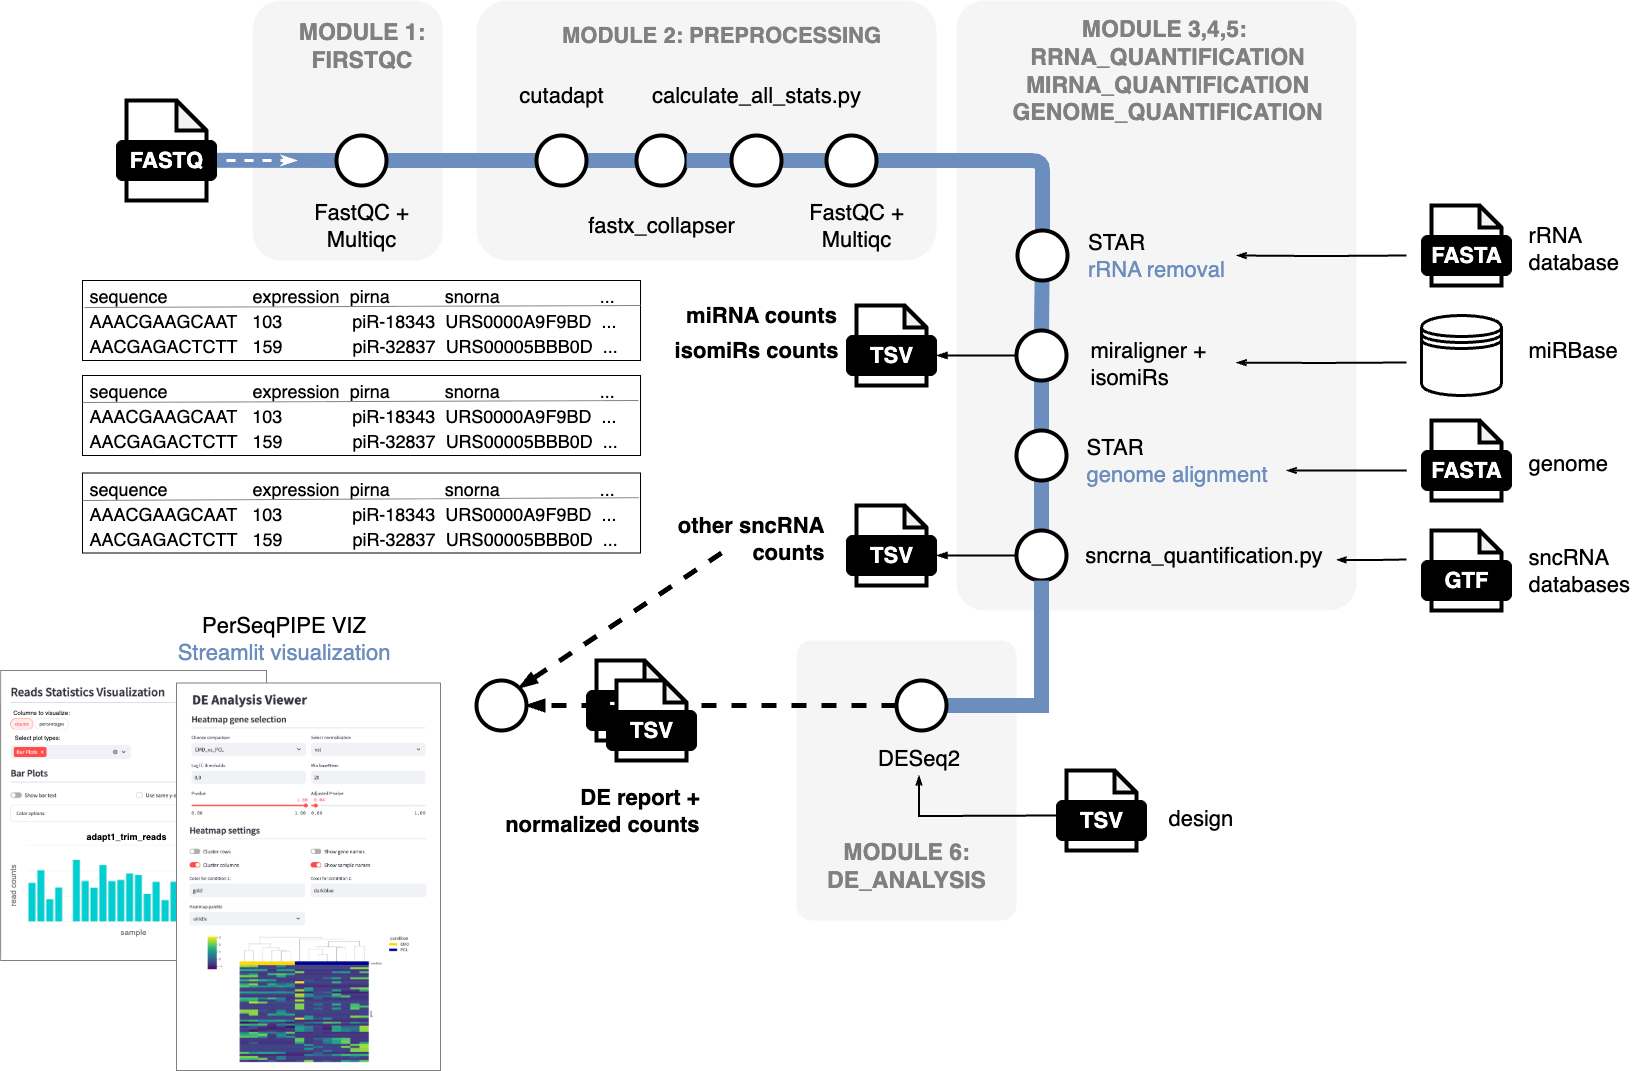
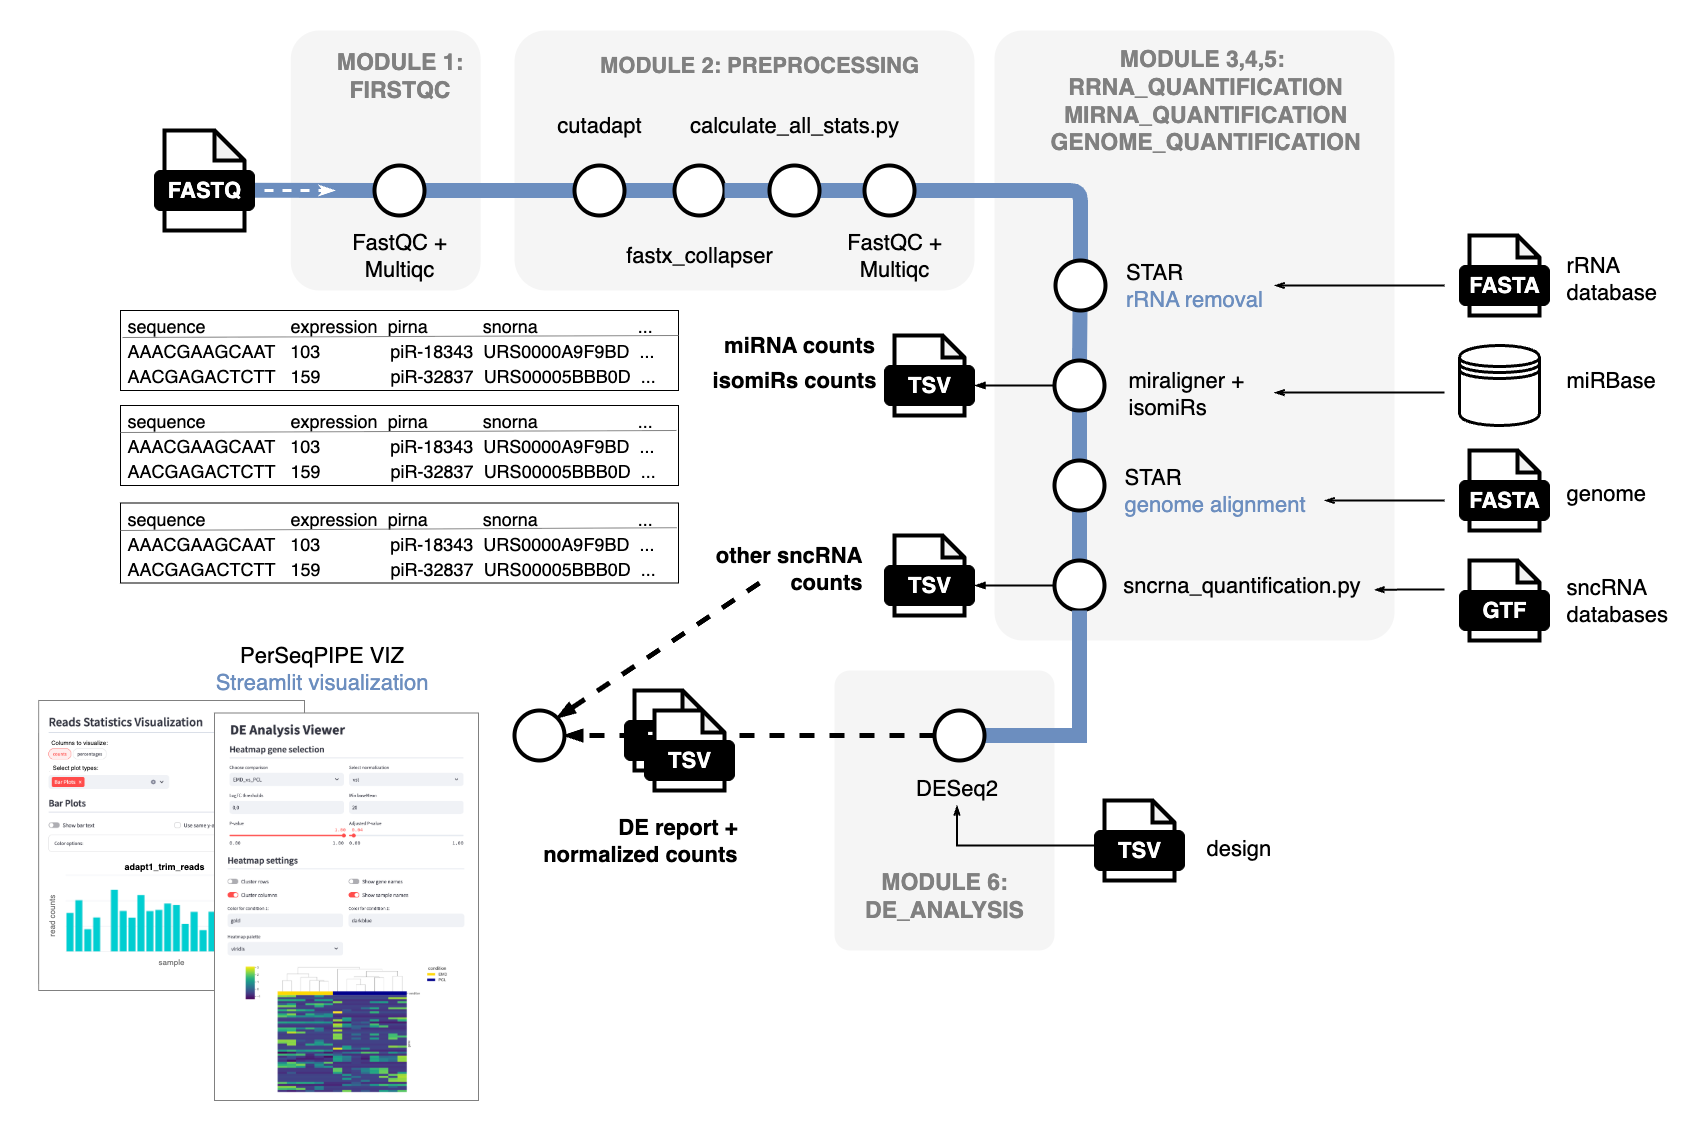
Cleaning README.md

diff --git a/bin/03e_quantification_short_rna.py b/bin/03e_quantification_short_rna.py
@@ -9,7 +9,6 @@ import logging
 import os
 from collections import defaultdict
 
-
 from MINTplates_module import *
 from utils import *
 
@@ -420,9 +419,3 @@ def main():
 if __name__ == "__main__":
     main()
 
-
-#genes = HTSeq.GenomicArrayOfSets("auto", stranded=True)
-#feature = HTSeq.GenomicInterval(str(1), 100, 150, '+')
-#interval = HTSeq.GenomicInterval(str(1), 90, 120, "+")
-#for iv, val in genes[interval].steps():
-#   print(iv, val)

diff --git a/CITATIONS.md b/CITATIONS.md
@@ -1,4 +1,4 @@
-# nf-core/srnaseq: Citations
+# General
 
 ## [nf-core](https://pubmed.ncbi.nlm.nih.gov/32055031/)
 
@@ -18,6 +18,46 @@
 
 > Ewels P, Magnusson M, Lundin S, Käller M. MultiQC: summarize analysis results for multiple tools and samples in a single report. Bioinformatics. 2016 Oct 1;32(19):3047-8. doi: 10.1093/bioinformatics/btw354. Epub 2016 Jun 16. PubMed PMID: 27312411; PubMed Central PMCID: PMC5039924.
 
+- [Cutadapt](https://pubmed.ncbi.nlm.nih.gov/28715235/)
+
+> Kechin A, Boyarskikh U, Kel A, Filipenko M. cutPrimers: A New Tool for Accurate Cutting of Primers from Reads of Targeted Next Generation Sequencing. J Comput Biol. 2017 Nov;24(11):1138-1143. doi: 10.1089/cmb.2017.0096. Epub 2017 Jul 17. PMID: 28715235.
+
+- [BBMap](https://bbmap.org)
+
+> Bushnell, B. (2014) BBMap: A Fast, Accurate, Splice-Aware Aligner. 9th Annual Genomics of Energy & Environment Meeting, Walnut Creek, CA. https://orcid.org/0000-0002-8140-0131. 
+
+- [STAR](https://pubmed.ncbi.nlm.nih.gov/23104886/)
+
+> Dobin A, Davis CA, Schlesinger F, Drenkow J, Zaleski C, Jha S, Batut P, Chaisson M, Gingeras TR. STAR: ultrafast universal RNA-seq aligner. Bioinformatics. 2013 Jan 1;29(1):15-21. doi: 10.1093/bioinformatics/bts635. Epub 2012 Oct 25. PMID: 23104886; PMCID: PMC3530905.
+
+- [SeqBuster](https://pubmed.ncbi.nlm.nih.gov/20008100/)
+
+> Pantano L, Estivill X, Martí E. SeqBuster, a bioinformatic tool for the processing and analysis of small RNAs datasets, reveals ubiquitous miRNA modifications in human embryonic cells. Nucleic Acids Res. 2010 Mar;38(5):e34. doi: 10.1093/nar/gkp1127. Epub 2009 Dec 11. PMID: 20008100; PMCID: PMC2836562.
+
+- [isomiRs](https://doi.org/10.18129/B9.bioc.isomiRs)
+
+> Pantano L, Escaramis G (2025). isomiRs: Analyze isomiRs and miRNAs from small RNA-seq. doi:10.18129/B9.bioc.isomiRs, R package version 1.36.1, https://bioconductor.org/packages/isomiRs.
+
+- [MINTbase](https://pubmed.ncbi.nlm.nih.gov/27153631/)
+
+> Pliatsika V, Loher P, Telonis AG, Rigoutsos I. MINTbase: a framework for the interactive exploration of mitochondrial and nuclear tRNA fragments. Bioinformatics. 2016 Aug 15;32(16):2481-9. doi: 10.1093/bioinformatics/btw194. Epub 2016 Apr 13. PMID: 27153631; PMCID: PMC4978933.
+
+- [HTSeq](https://pubmed.ncbi.nlm.nih.gov/35561197/)
+
+> Putri GH, Anders S, Pyl PT, Pimanda JE, Zanini F. Analysing high-throughput sequencing data in Python with HTSeq 2.0. Bioinformatics. 2022 May 13;38(10):2943-2945. doi: 10.1093/bioinformatics/btac166. PMID: 35561197; PMCID: PMC9113351.
+
+- [DESeq2](https://pubmed.ncbi.nlm.nih.gov/25516281/)
+
+> Love MI, Huber W, Anders S. Moderated estimation of fold change and dispersion for RNA-seq data with DESeq2. Genome Biol. 2014;15(12):550. doi: 10.1186/s13059-014-0550-8. PMID: 25516281; PMCID: PMC4302049.
+
+- [edgeR](https://pubmed.ncbi.nlm.nih.gov/19910308/)
+
+> Robinson MD, McCarthy DJ, Smyth GK. edgeR: a Bioconductor package for differential expression analysis of digital gene expression data. Bioinformatics. 2010 Jan 1;26(1):139-40. doi: 10.1093/bioinformatics/btp616. Epub 2009 Nov 11. PMID: 19910308; PMCID: PMC2796818.
+
+- [limma](https://pubmed.ncbi.nlm.nih.gov/25605792/)
+
+> Ritchie ME, Phipson B, Wu D, Hu Y, Law CW, Shi W, Smyth GK. limma powers differential expression analyses for RNA-sequencing and microarray studies. Nucleic Acids Res. 2015 Apr 20;43(7):e47. doi: 10.1093/nar/gkv007. Epub 2015 Jan 20. PMID: 25605792; PMCID: PMC4402510.
+
 ## Software packaging/containerisation tools
 
 - [Anaconda](https://anaconda.com)
@@ -35,7 +75,3 @@
 - [Docker](https://dl.acm.org/doi/10.5555/2600239.2600241)
 
   > Merkel, D. (2014). Docker: lightweight linux containers for consistent development and deployment. Linux Journal, 2014(239), 2. doi: 10.5555/2600239.2600241.
-
-- [Singularity](https://pubmed.ncbi.nlm.nih.gov/28494014/)
-
-  > Kurtzer GM, Sochat V, Bauer MW. Singularity: Scientific containers for mobility of compute. PLoS One. 2017 May 11;12(5):e0177459. doi: 10.1371/journal.pone.0177459. eCollection 2017. PubMed PMID: 28494014; PubMed Central PMCID: PMC5426675.

diff --git a/README.md b/README.md
@@ -3,36 +3,35 @@
     <img alt="" src="docs/images/logo_light.png" style="margin-bottom: 50px;">
 </picture>
 
-
 [![Nextflow](https://img.shields.io/badge/nextflow%20DSL2-%E2%89%A524.04.2-23aa62.svg)](https://www.nextflow.io/)
 [![run with conda](http://img.shields.io/badge/run%20with-conda-3EB049?labelColor=000000&logo=anaconda)](https://docs.conda.io/en/latest/)
 [![run with docker](https://img.shields.io/badge/run%20with-docker-0db7ed?labelColor=000000&logo=docker)](https://www.docker.com/)
 
-## Introduction
+## ⭐ Introduction
 
-**PerSeqPIPE** is a bioinformatics pipeline for analysis of small RNA-sequencing datasets focusing on sequence-centric quantification.
+**PerSeqPIPE** is a bioinformatics pipeline for analysis of small RNA-sequencing datasets focusing of various small non-coding RNAs using a sequence-centric quantification.
 
 <picture>
     <source media="(prefers-color-scheme: dark)" srcset="docs/images/PerSeqPIPE.png">
     <img alt="" src="docs/images/PerSeqPIPE.png" style="margin-bottom: 20px;">
 </picture>
 
-For detailed information about individual modules, please refere to [Module description](docs/module_description.md) documentation.
+For detailed information about individual modules, please refere to [Module description](docs/module_description.md) documentation. Annotation GTF file used for sncRNA quantification was create as described in [Annotation preparation](docs/annotation_preparation.md) using databases specified in [Reference databases](docs/reference_databases.md).
 
-## Usage
+## 💻 Usage
 
 For instructions on how to execute the PerSeqPIPE pipeline, plese refer to [Usage](docs/usage.md) documentation.
 
-## Pipeline outputs
+## 🔍 Pipeline outputs
 
-Outputs of PerSeqPIPE's individual modules are desribed in [Outputs](docs/outputs.md) documentation.
+Outputs of PerSeqPIPE individual modules are desribed in [Outputs](docs/outputs.md) documentation.
 
 A full size example test run results can be downloaded here. 
 
-## Credits
+## 🎺 Credits
 
-PerSeqPIPE was originally written by Karolina Trachtova.
+PerSeqPIPE pipeline is written by Karolina Trachtova (karolina.trachtova@ceitec.muni.cz).
 
-## Citations
+## 📎 Citations
 
 An extensive list of references for the tools used by the pipeline can be found in the [`CITATIONS.md`](CITATIONS.md) file.
